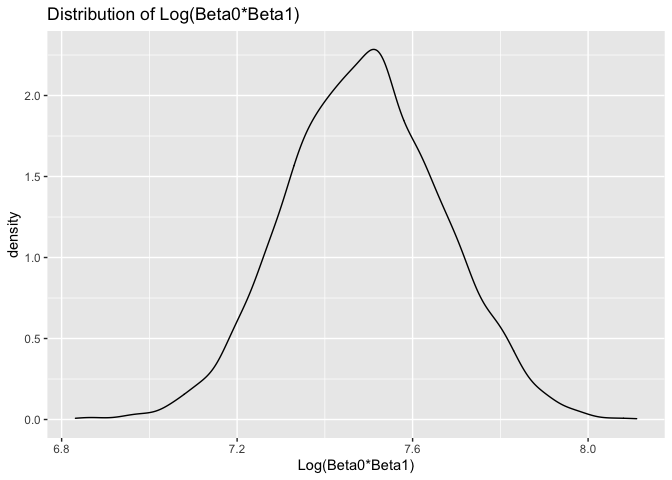
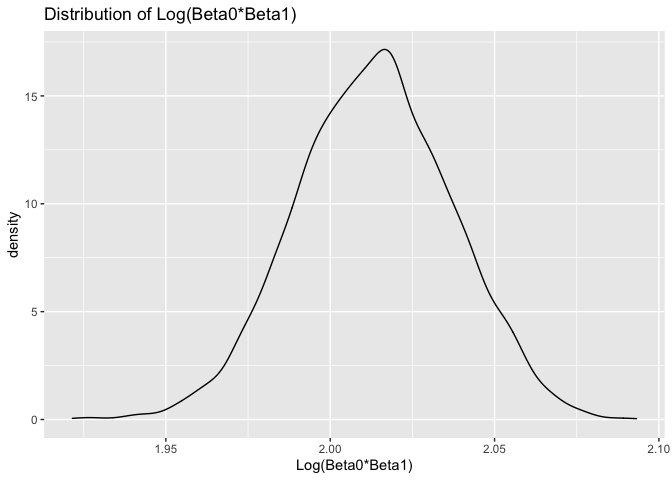
Finalize

diff --git a/p8105_hw6_zz2899.md b/p8105_hw6_zz2899.md
@@ -161,6 +161,9 @@ bootstrap_results %>%
 
 ![](p8105_hw6_zz2899_files/figure-gfm/unnamed-chunk-10-1.png)<!-- -->
 
+The distribution of adjusted R-squared is approximately normal with a
+non-obvious tail extending to low values.
+
 ``` r
 bootstrap_results2 <- 
   boot_straps %>% 
@@ -176,7 +179,7 @@ log_product<-
   pivot_wider(names_from = term, values_from = estimate)%>%
   unnest()%>%
   janitor::clean_names()%>%
-  mutate(log_product = intercept*tmin)%>%
+  mutate(log_product = log(intercept*tmin))%>%
   select(log_product)
 ```
 
@@ -198,7 +201,7 @@ log_product%>%
     ## # A tibble: 1 × 2
     ##   ci_lower ci_upper
     ##      <dbl>    <dbl>
-    ## 1     7.15     7.83
+    ## 1     1.97     2.06
 
 ``` r
 log_product %>% 
@@ -208,3 +211,5 @@ log_product %>%
 ```
 
 ![](p8105_hw6_zz2899_files/figure-gfm/unnamed-chunk-12-1.png)<!-- -->
+
+The distribution of log(beta0\*beta1) is approxiamtely normal.
